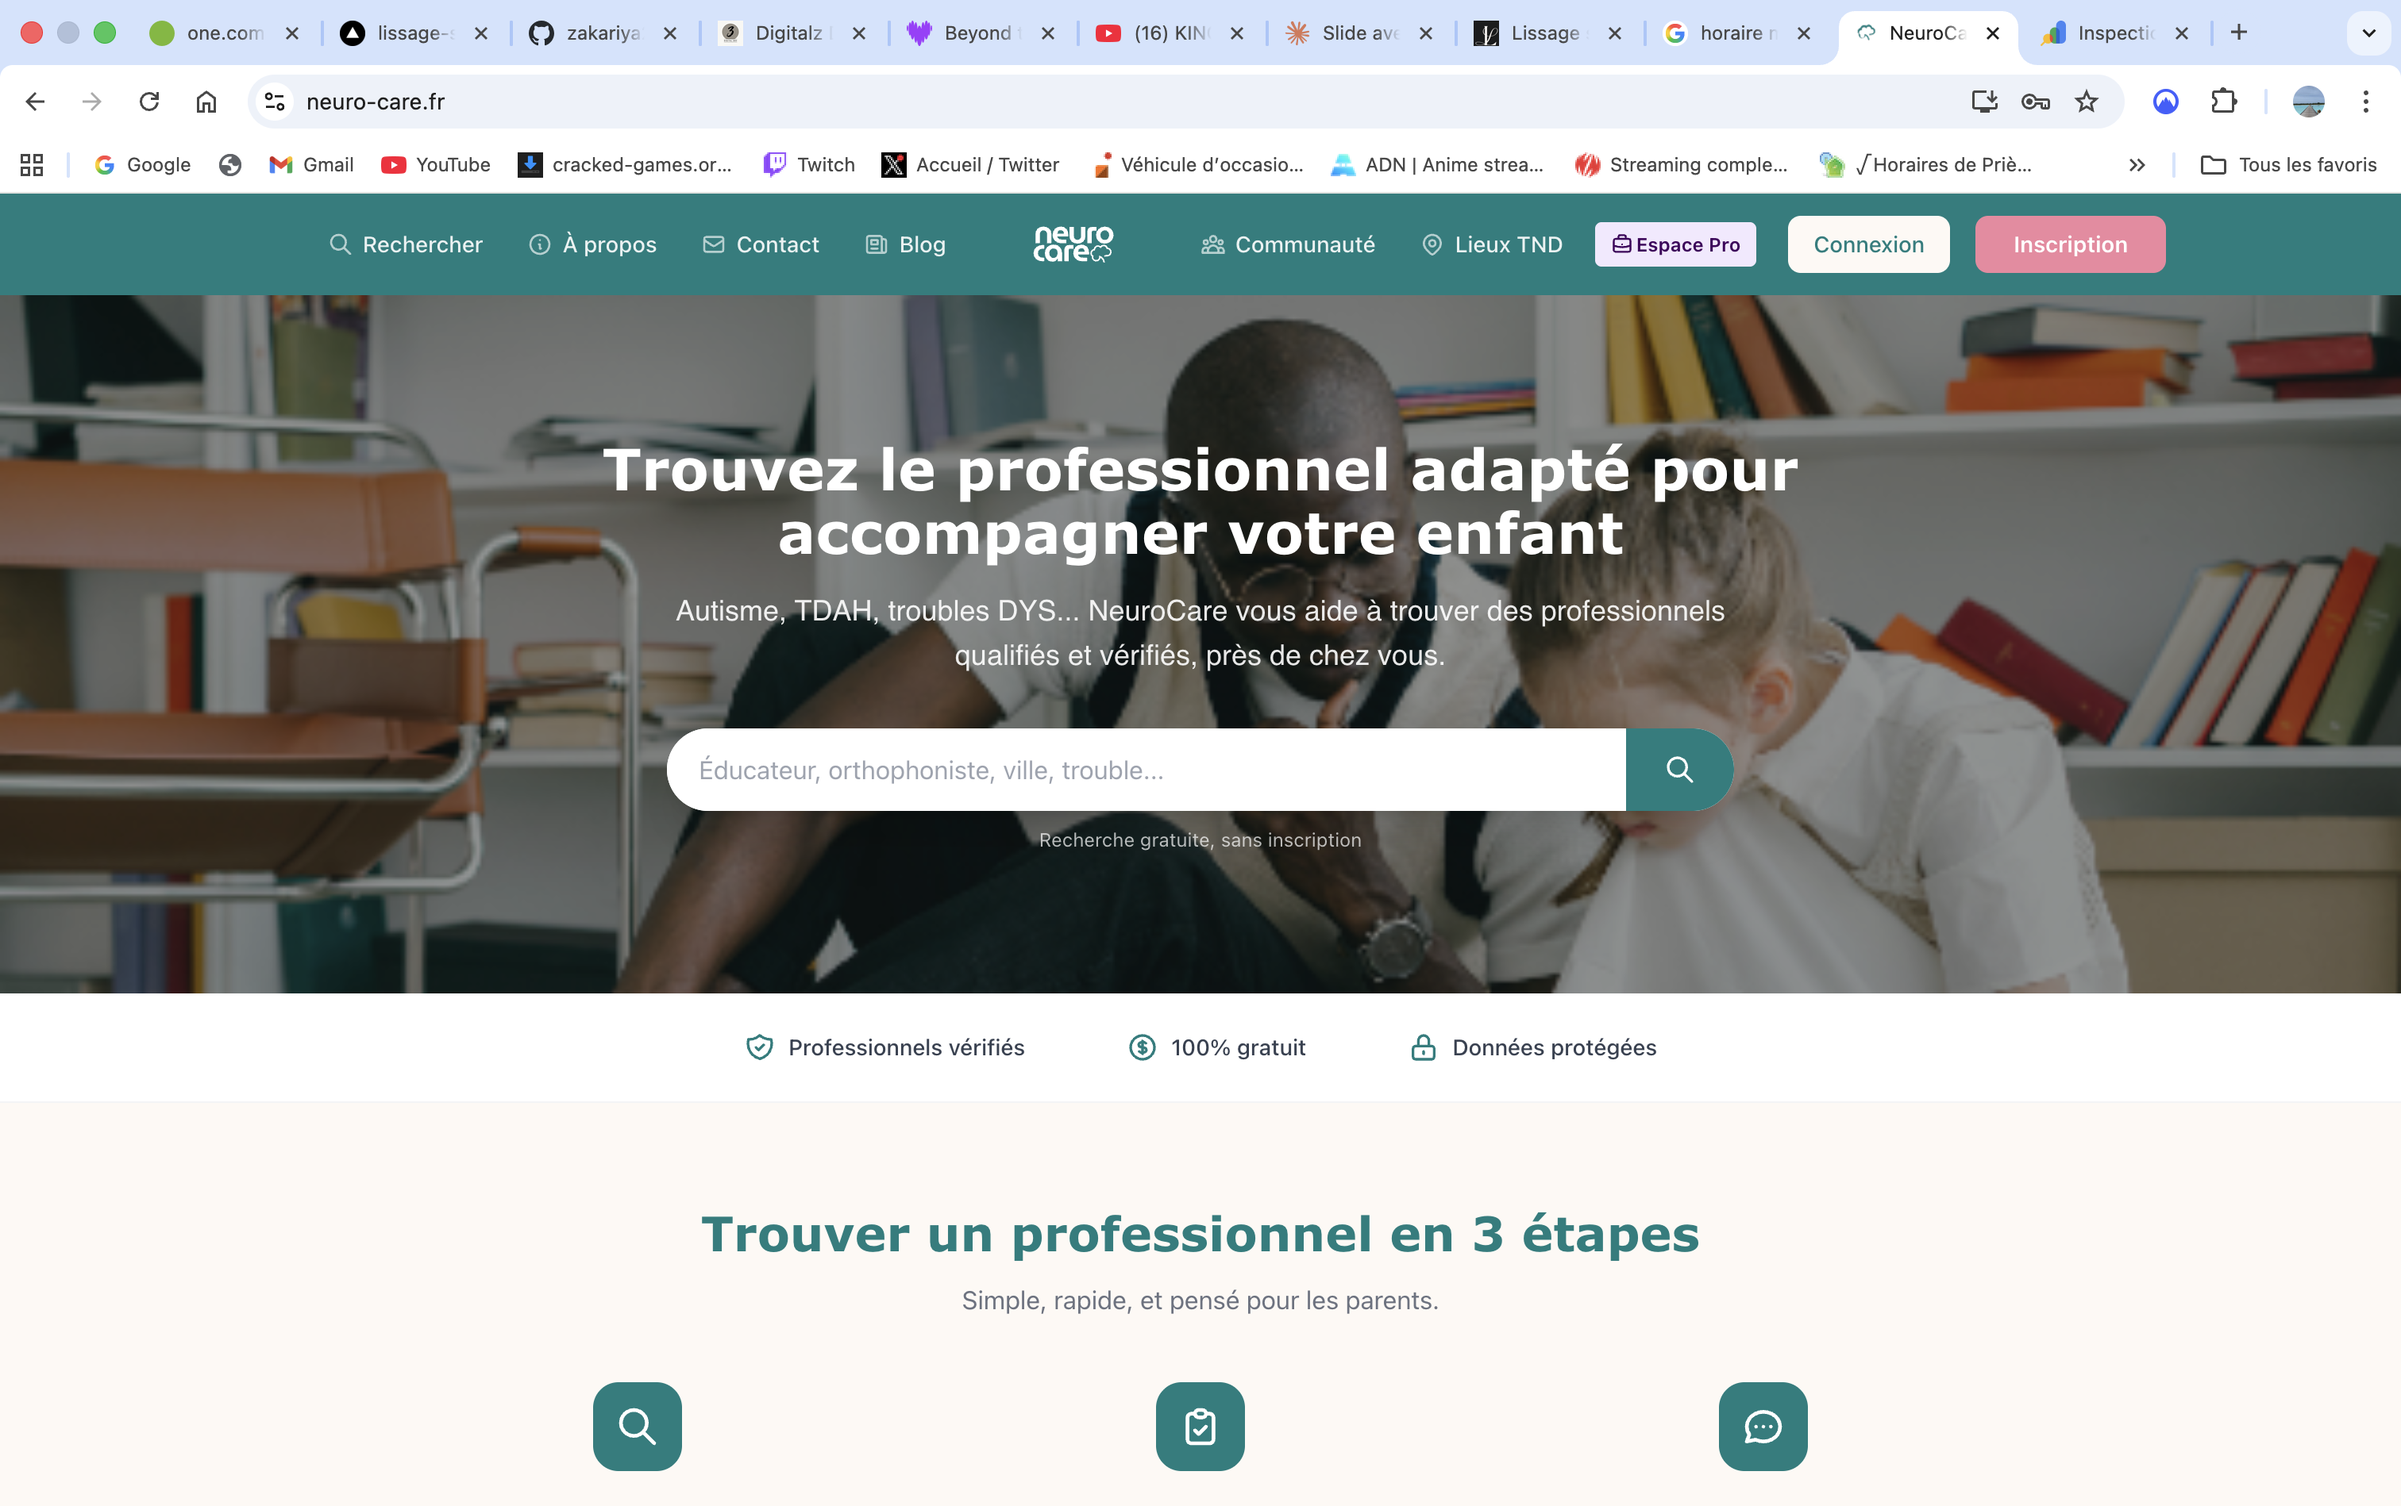
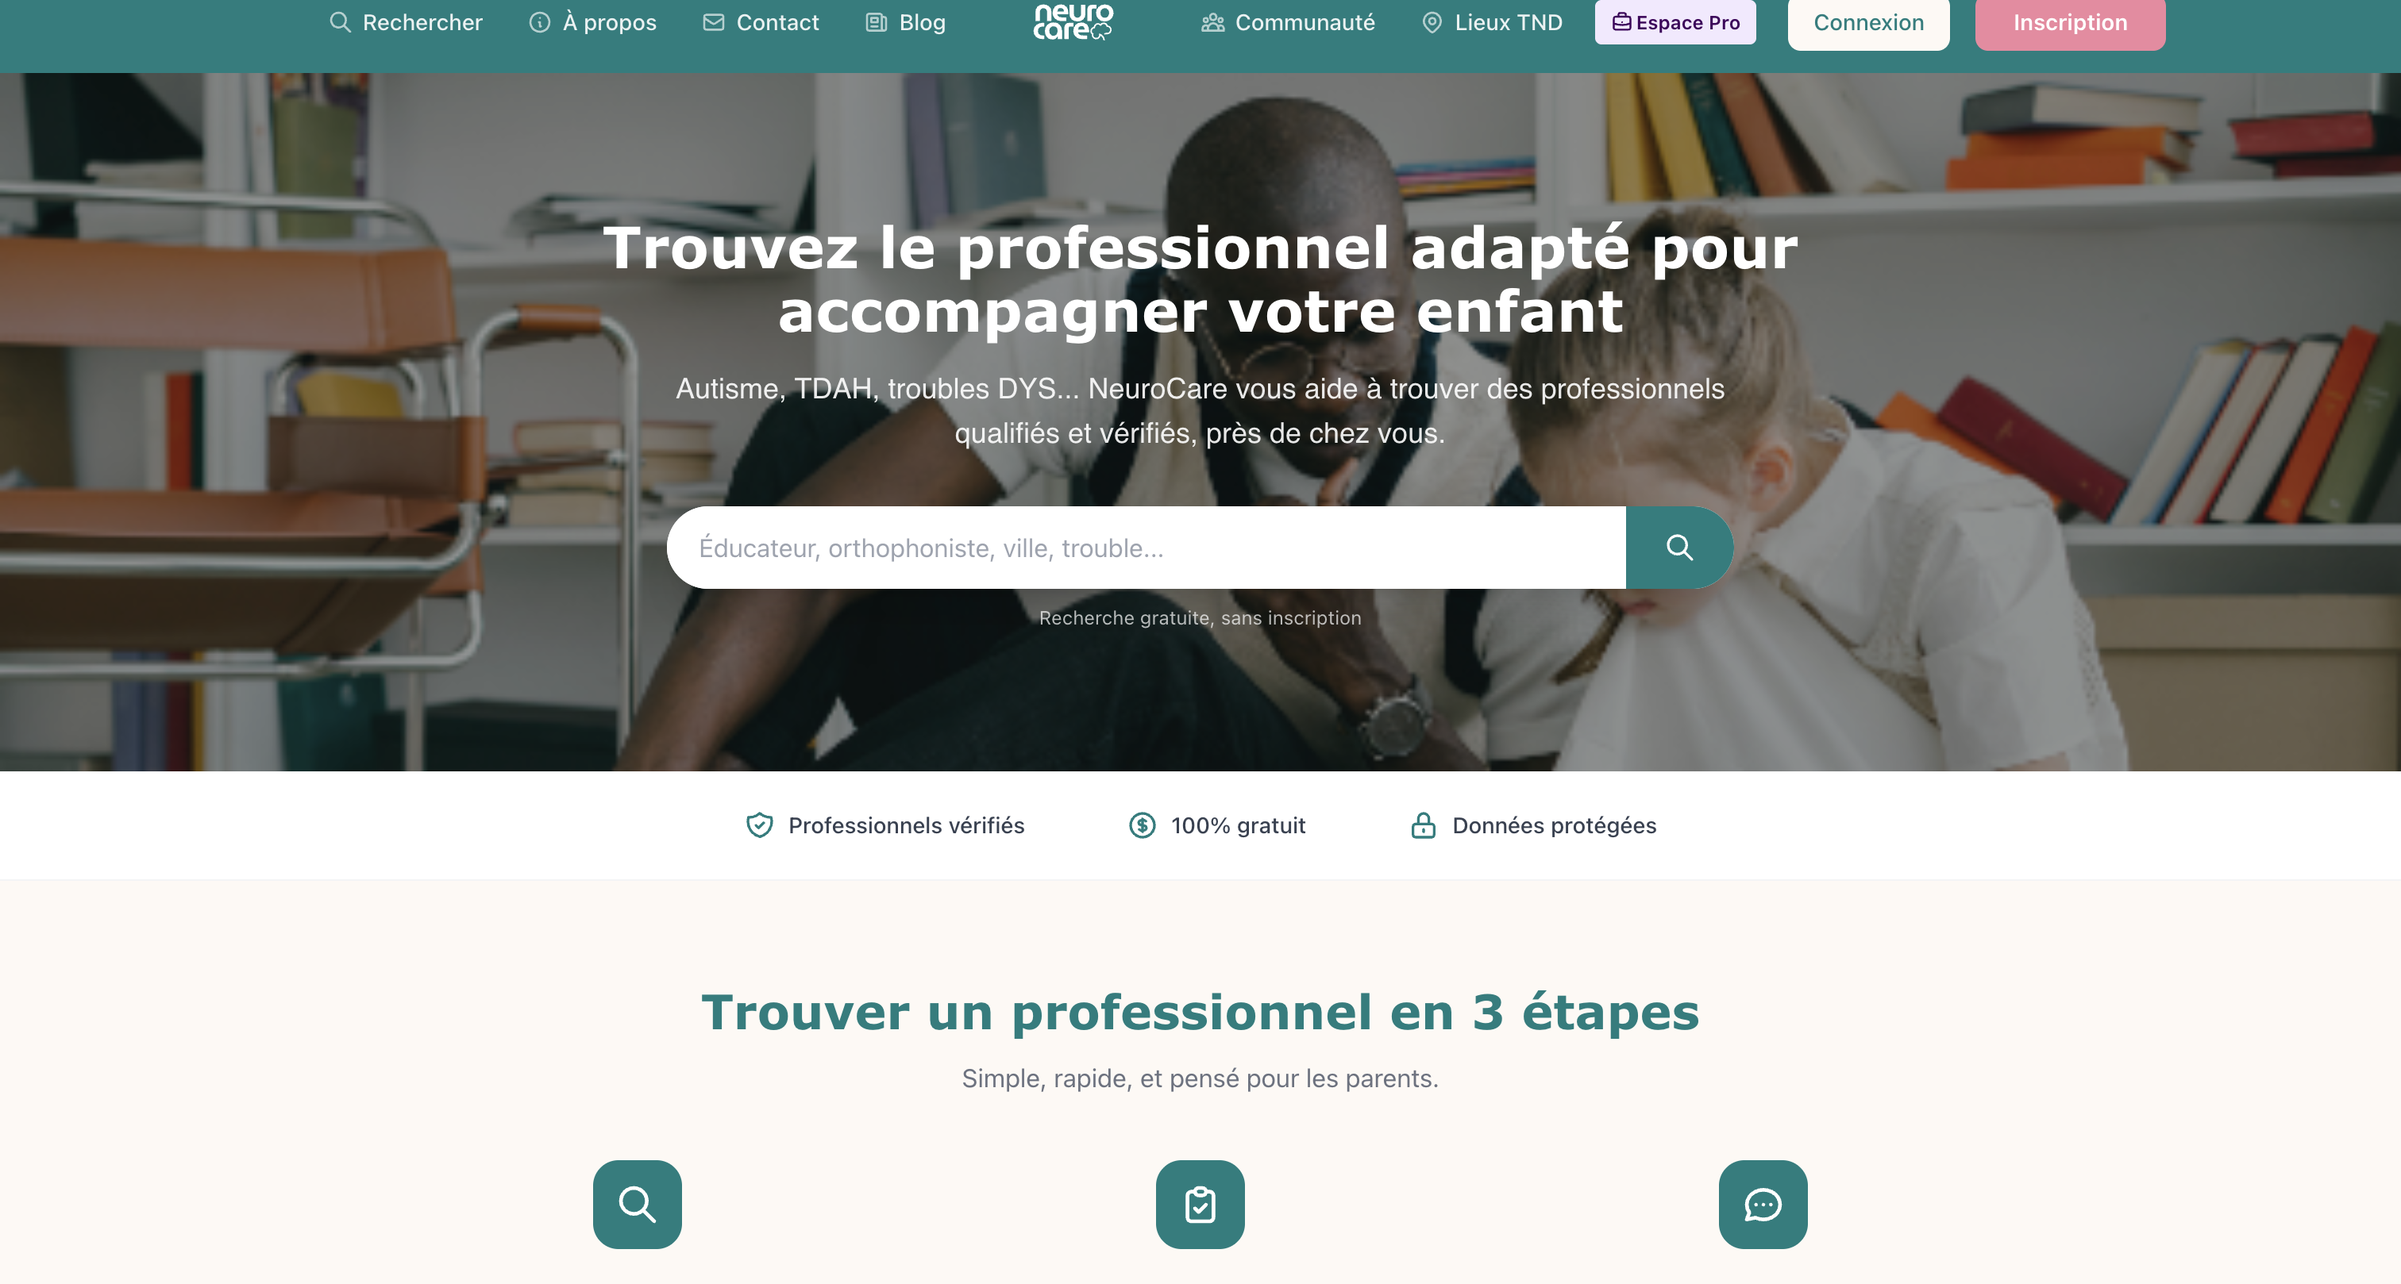
feat: add mission section highlighting NeuroCare reinvestment
Add a dedicated mission section on the homepage explaining that all
DigitalzDev revenue is reinvested into NeuroCare. Also crop the
NeuroCare screenshot to remove browser chrome.

diff --git a/src/components/MissionSection.tsx b/src/components/MissionSection.tsx
@@ -1,0 +1,132 @@
+import { motion } from 'framer-motion'
+import { Link } from 'react-router-dom'
+
+export default function MissionSection() {
+  return (
+    <section className="relative py-24 md:py-32 bg-surface overflow-hidden">
+      {/* Subtle background accent */}
+      <div className="absolute inset-0 opacity-[0.03]">
+        <div className="absolute top-1/2 left-1/2 -translate-x-1/2 -translate-y-1/2 w-[800px] h-[800px] rounded-full bg-[#5BA89D] blur-[120px]" />
+      </div>
+
+      <div className="relative max-w-5xl mx-auto px-6">
+        {/* Header */}
+        <motion.div
+          className="text-center mb-16"
+          initial={{ opacity: 0, y: 40 }}
+          whileInView={{ opacity: 1, y: 0 }}
+          viewport={{ once: true }}
+          transition={{ duration: 0.8, ease: [0.16, 1, 0.3, 1] }}
+        >
+          <span className="text-[#5BA89D] font-display font-semibold text-sm tracking-[0.2em] uppercase">
+            Notre mission
+          </span>
+          <h2 className="font-display font-bold text-3xl md:text-5xl text-text-primary mt-4 mb-6">
+            Chaque projet finance une cause
+          </h2>
+          <p className="text-text-secondary max-w-2xl mx-auto text-lg leading-relaxed">
+            100% des revenus générés par Digitalz Dev sont réinvestis dans{' '}
+            <a
+              href="https://neuro-care.fr"
+              target="_blank"
+              rel="noopener noreferrer"
+              className="text-[#5BA89D] font-semibold hover:underline"
+            >
+              NeuroCare
+            </a>
+            , une plateforme dédiée aux personnes en situation de handicap.
+          </p>
+        </motion.div>
+
+        {/* Content grid */}
+        <div className="grid md:grid-cols-2 gap-12 md:gap-16 items-center">
+          {/* Left: Image / Visual */}
+          <motion.div
+            initial={{ opacity: 0, x: -40 }}
+            whileInView={{ opacity: 1, x: 0 }}
+            viewport={{ once: true }}
+            transition={{ duration: 0.8, delay: 0.1, ease: [0.16, 1, 0.3, 1] }}
+          >
+            <div className="relative rounded-2xl overflow-hidden shadow-xl">
+              <img
+                src="/screenshots/neurocare-hero.png"
+                alt="NeuroCare - Plateforme de neurodéveloppement"
+                className="w-full h-auto"
+              />
+              <div className="absolute inset-0 rounded-2xl ring-1 ring-inset ring-black/5" />
+            </div>
+          </motion.div>
+
+          {/* Right: Text content */}
+          <motion.div
+            initial={{ opacity: 0, x: 40 }}
+            whileInView={{ opacity: 1, x: 0 }}
+            viewport={{ once: true }}
+            transition={{ duration: 0.8, delay: 0.2, ease: [0.16, 1, 0.3, 1] }}
+          >
+            <h3 className="font-display font-bold text-2xl md:text-3xl text-text-primary mb-6">
+              NeuroCare — bien plus qu'une plateforme
+            </h3>
+
+            <div className="space-y-4 text-text-secondary leading-relaxed">
+              <p>
+                Ce projet est né d'un constat simple mais désolant : il n'y a
+                pas suffisamment de places dans les établissements spécialisés,
+                et beaucoup de familles se retrouvent à domicile, sans solution.
+              </p>
+              <p>
+                NeuroCare met en relation des professionnels spécialisés en
+                troubles du neurodéveloppement (autisme, TDAH, troubles DYS…)
+                avec les personnes concernées et leurs familles.
+              </p>
+              <p className="font-medium text-text-primary">
+                Plus qu'une plateforme, nous guidons et accompagnons les
+                familles dans leur parcours.
+              </p>
+            </div>
+
+            {/* Stats / Key points */}
+            <div className="grid grid-cols-2 gap-4 mt-8">
+              <div className="p-4 rounded-xl bg-surface-card border border-surface-border">
+                <div className="text-[#5BA89D] font-display font-bold text-2xl">100%</div>
+                <div className="text-text-muted text-sm mt-1">
+                  des revenus réinvestis
+                </div>
+              </div>
+              <div className="p-4 rounded-xl bg-surface-card border border-surface-border">
+                <div className="text-[#5BA89D] font-display font-bold text-2xl">Gratuit</div>
+                <div className="text-text-muted text-sm mt-1">
+                  pour les familles
+                </div>
+              </div>
+            </div>
+
+            <div className="mt-8">
+              <a
+                href="https://neuro-care.fr"
+                target="_blank"
+                rel="noopener noreferrer"
+                className="inline-flex items-center gap-2 px-8 py-3 bg-[#5BA89D] text-white rounded-full font-display font-semibold tracking-wider text-sm hover:bg-[#4A9488] transition-colors"
+              >
+                DÉCOUVRIR NEUROCARE
+                <svg
+                  className="w-4 h-4"
+                  fill="none"
+                  stroke="currentColor"
+                  viewBox="0 0 24 24"
+                  strokeWidth={2}
+                >
+                  <path
+                    strokeLinecap="round"
+                    strokeLinejoin="round"
+                    d="M13.5 6H5.25A2.25 2.25 0 003 8.25v10.5A2.25 2.25 0 005.25 21h10.5A2.25 2.25 0 0018 18.75V10.5m-10.5 6L21 3m0 0h-5.25M21 3v5.25"
+                  />
+                </svg>
+              </a>
+            </div>
+          </motion.div>
+        </div>
+      </div>
+    </section>
+  )
+}

diff --git a/src/pages/Home.tsx b/src/pages/Home.tsx
@@ -1,5 +1,6 @@
 import Hero from '../components/Hero'
 import ProjectsSection from '../components/ProjectsSection'
+import MissionSection from '../components/MissionSection'
 import Footer from '../components/Footer'
 
 export default function Home() {
@@ -7,6 +8,7 @@ export default function Home() {
     <main>
       <Hero />
       <ProjectsSection />
+      <MissionSection />
       <Footer />
     </main>
   )
